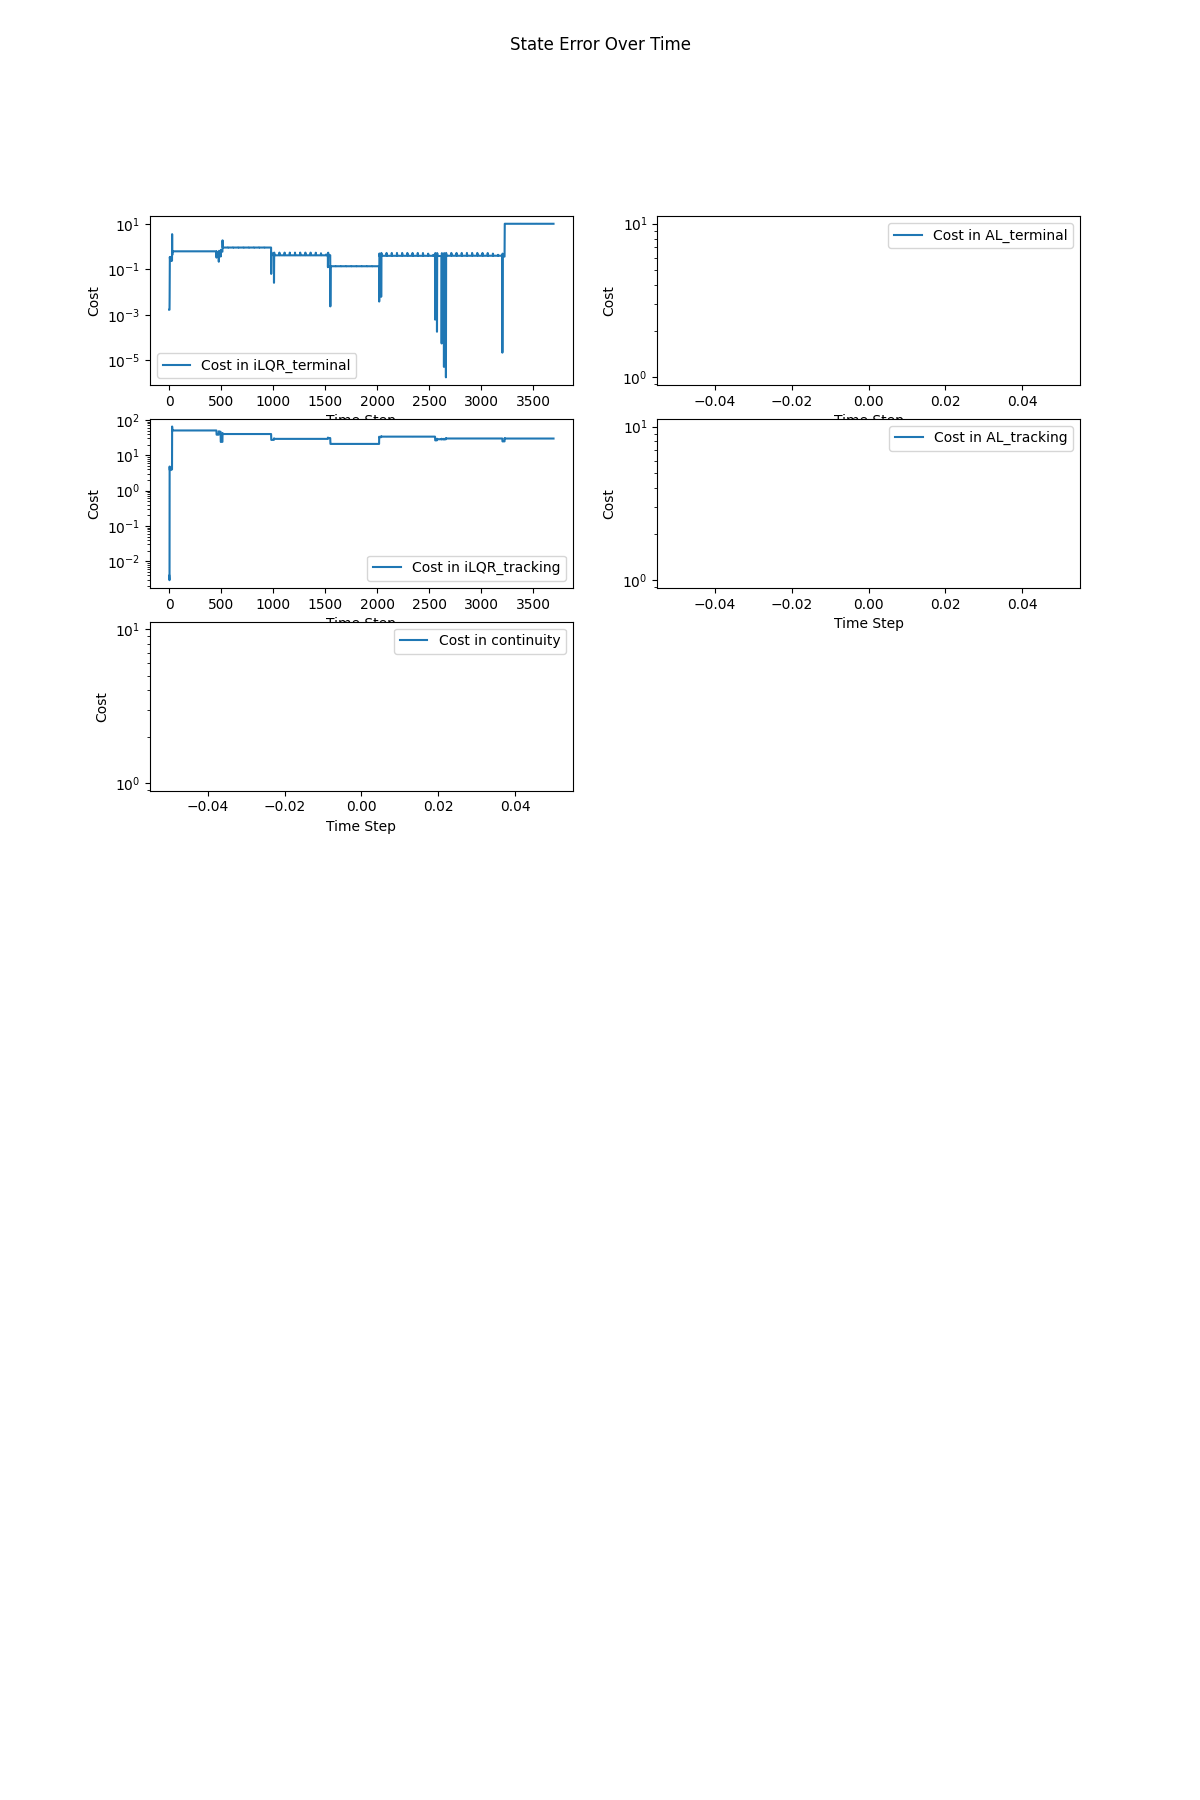
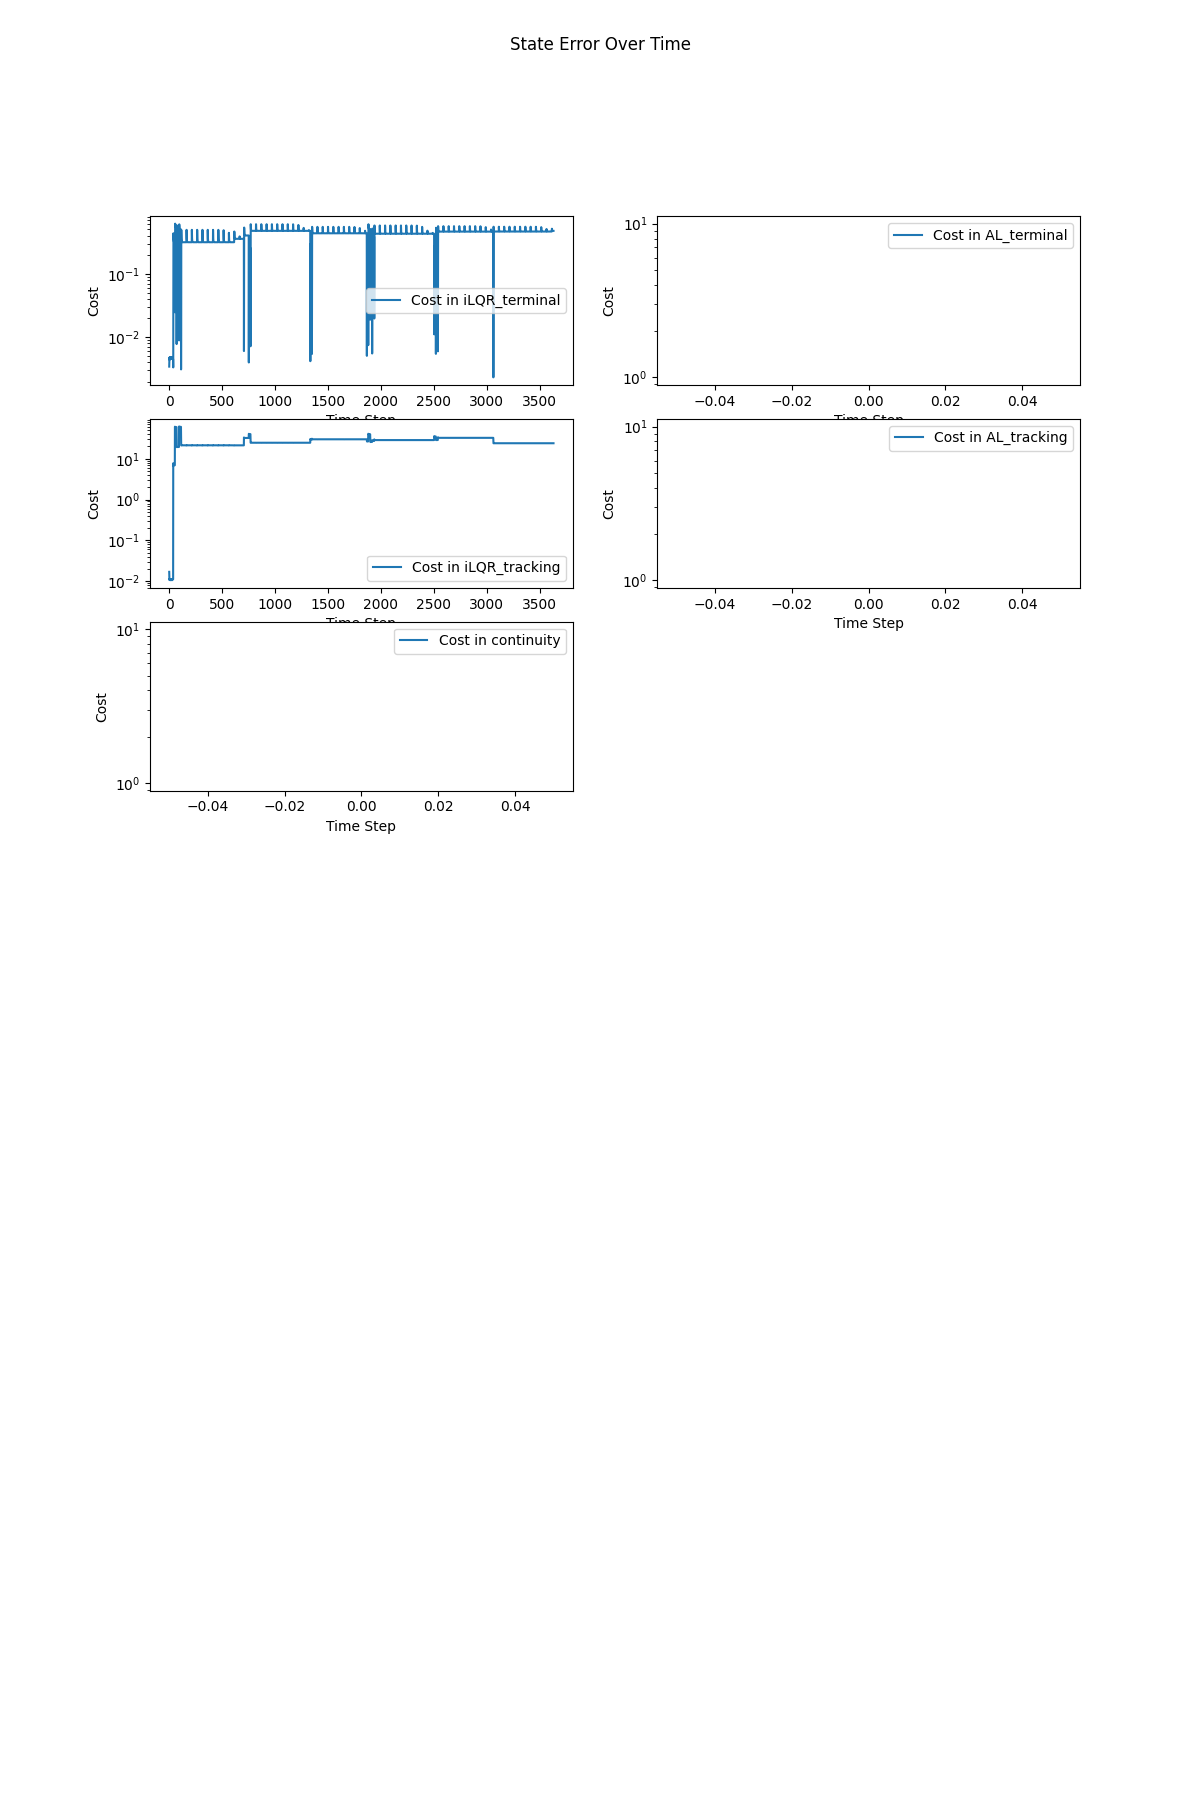
20 iterations cuz it was killing me; video killed; please help

diff --git a/src/main_228.py b/src/main_228.py
@@ -391,7 +391,7 @@ if __name__ == "__main__":
 
         plt.close()
 
-    x_scvx,u_scvx,logs_per_iter = scvx.solve(max_iters=30,plot_progress_helper=plot_progress_helper)
+    x_scvx,u_scvx,logs_per_iter = scvx.solve(max_iters=20,plot_progress_helper=plot_progress_helper)
 
     # iLQR --------------------------------------------------------------------------------------------------------------------
     # Create iLQR policy

diff --git a/src/policies/filter.py b/src/policies/filter.py
@@ -183,7 +183,7 @@ class EKF(Filter):
         # Store the updated state and covariance.
         self.mu = mu_tplus_tplus
         self.Sig = Sig_tplus_tplus
-        return mu_tplus_tplus, Sig_tplus_tplus
+        return mu_tplus_tplus # , Sig_tplus_tplus
 
 
 # class MEKF(Filter):
